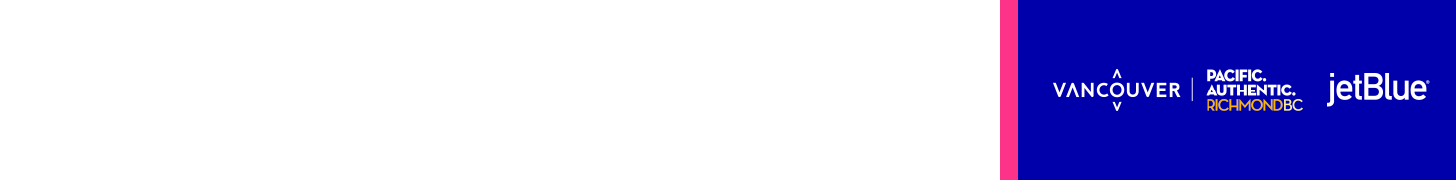
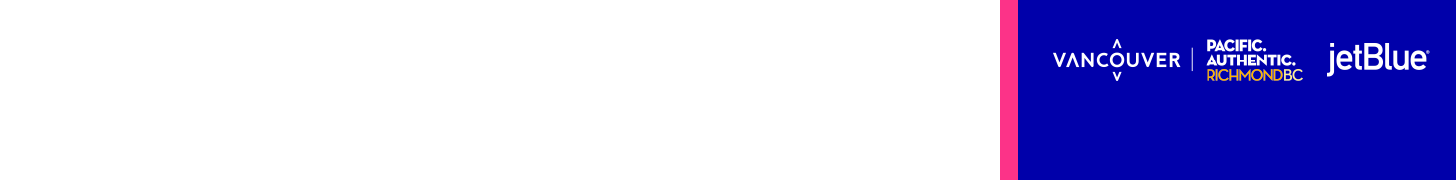
route 1 update

Changed region(s): [[0.7109, 0.1944, 0.989, 0.6389], [0.7418, 0.5833, 0.7727, 0.6111], [0.7418, 0.2222, 0.7727, 0.25]]

diff --git a/route1/richLoads/05768_JetBlue_Vancouver_LightsSightsBites_728x90_RL1/index.html b/route1/richLoads/05768_JetBlue_Vancouver_LightsSightsBites_728x90_RL1/index.html
@@ -37,7 +37,7 @@
 
         <div id="text_holder">
             <div id="h1" class="hidden">Take in the lights...</div>
-            <div id="h2" class="hidden">sights and bites of<br>Vancouver and<br>Richmond.</div>
+            <div id="h2" class="hidden">sights and bites<br>of Vancouver<br>and Richmond.</div>
           <div id="termsCopyrightHolder"><div id="termsCopyright" class="terms">&copy; <span id="year"></span> JetBlue Airways Corporation. All rights reserved.</div>
         </div>
 

diff --git a/route1/richLoads/05768_JetBlue_Vancouver_LightsSightsBites_300x600_RL2/mainRL2.js b/route1/richLoads/05768_JetBlue_Vancouver_LightsSightsBites_300x600_RL2/mainRL2.js
@@ -67,7 +67,7 @@ function setupContent() {
 
 
 h4[0].innerHTML +=
- "<span class='sm blue'>Nonstop flights from  </span><br><span class='blue city'>" + "NYC" + "</span> <span class='blue to'>to</span><br><span class='blue city'>" + "Vancouver" + "</span>";
+ "<span class='sm blue'>Nonstop flights from </span><br><span class='blue city'>" + "NYC" + "</span> <span class='blue to'>to</span> <span class='blue city'>" + "Vancouver" + "</span>";
 
    
   //  h4[0].innerHTML +=

diff --git a/route1/richLoads/05768_JetBlue_Vancouver_LightsSightsBites_300x600_RL1/stylesRL1.css b/route1/richLoads/05768_JetBlue_Vancouver_LightsSightsBites_300x600_RL1/stylesRL1.css
@@ -207,8 +207,9 @@ video {
   font-size: 7px;
   letter-spacing: -0.02em;
   line-height: 8px;
-  left: 24px;
-  width: 275px;
+  left: 0px;
+  width: 300px;
+  text-align: center;
 }
 
 .terms .asterisk {
